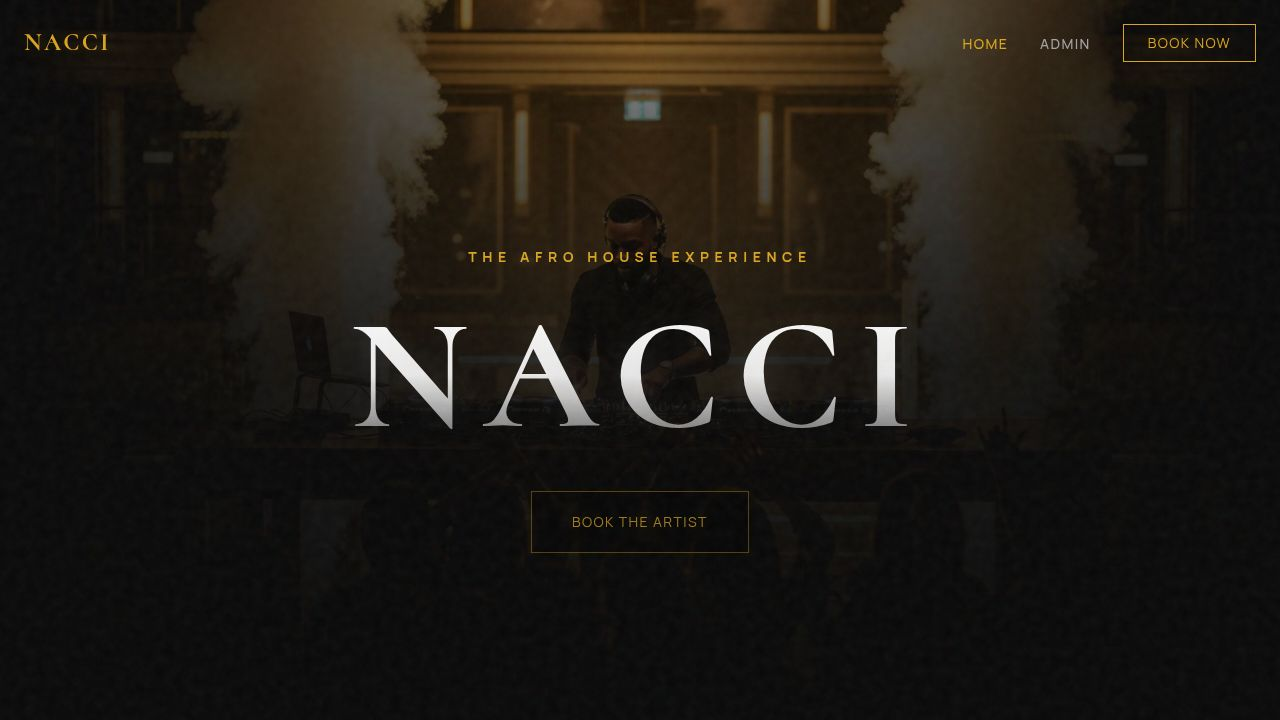
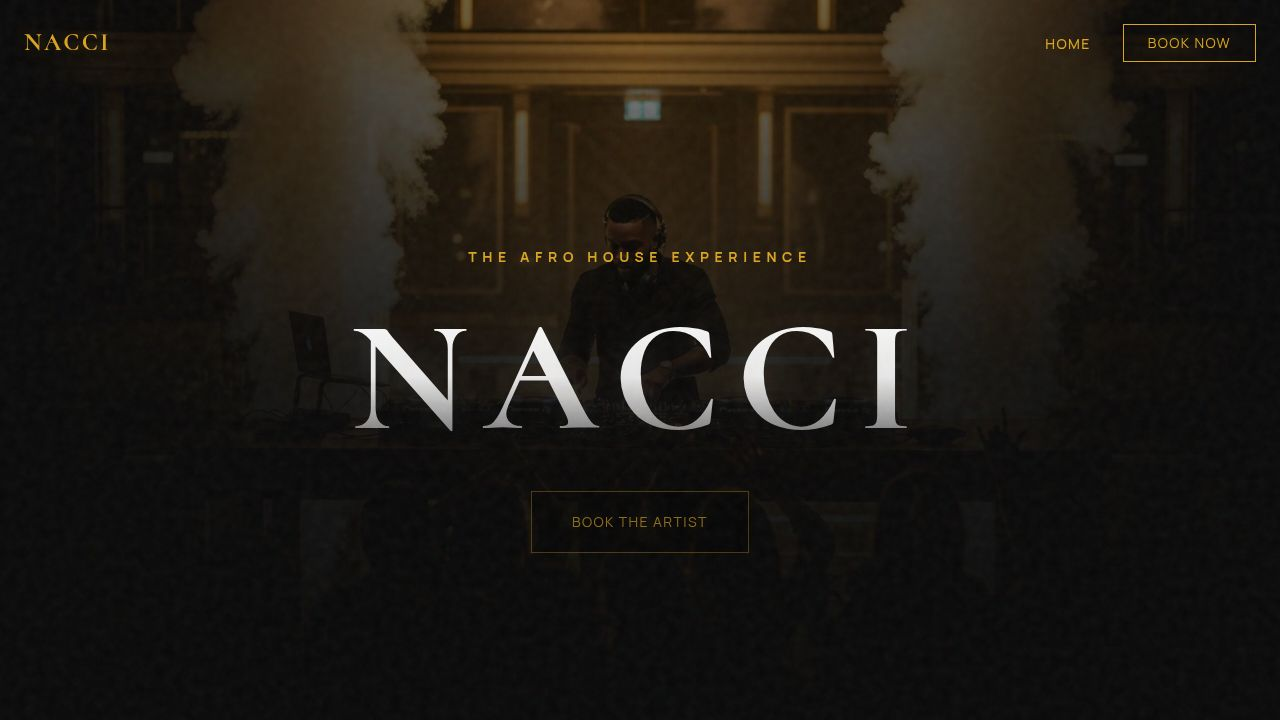
Remove admin link from main navigation
Remove the "Admin" link from the primary navigation bar, making it accessible only via direct URL.

Replit-Commit-Author: Agent
Replit-Commit-Session-Id: 1f81a3a6-b427-4114-81be-a78376a98cbe
Replit-Commit-Checkpoint-Type: full_checkpoint
Replit-Commit-Event-Id: 90be9000-c21d-48c8-ae82-0967fc5f9ab2
Replit-Commit-Screenshot-Url: https://storage.googleapis.com/screenshot-production-us-central1/033d6d91-18b8-439d-ac3d-4450e4ea15f7/1f81a3a6-b427-4114-81be-a78376a98cbe/pCU05CF
Replit-Helium-Checkpoint-Created: true

diff --git a/client/src/components/layout/Navbar.tsx b/client/src/components/layout/Navbar.tsx
@@ -15,8 +15,7 @@ export default function Navbar() {
   }, []);
 
   const navLinks = [
-    { name: "Home", href: "/" },
-    { name: "Admin", href: "/admin" },
+    { name: "Home", href: "/" }
   ];
 
   return (
